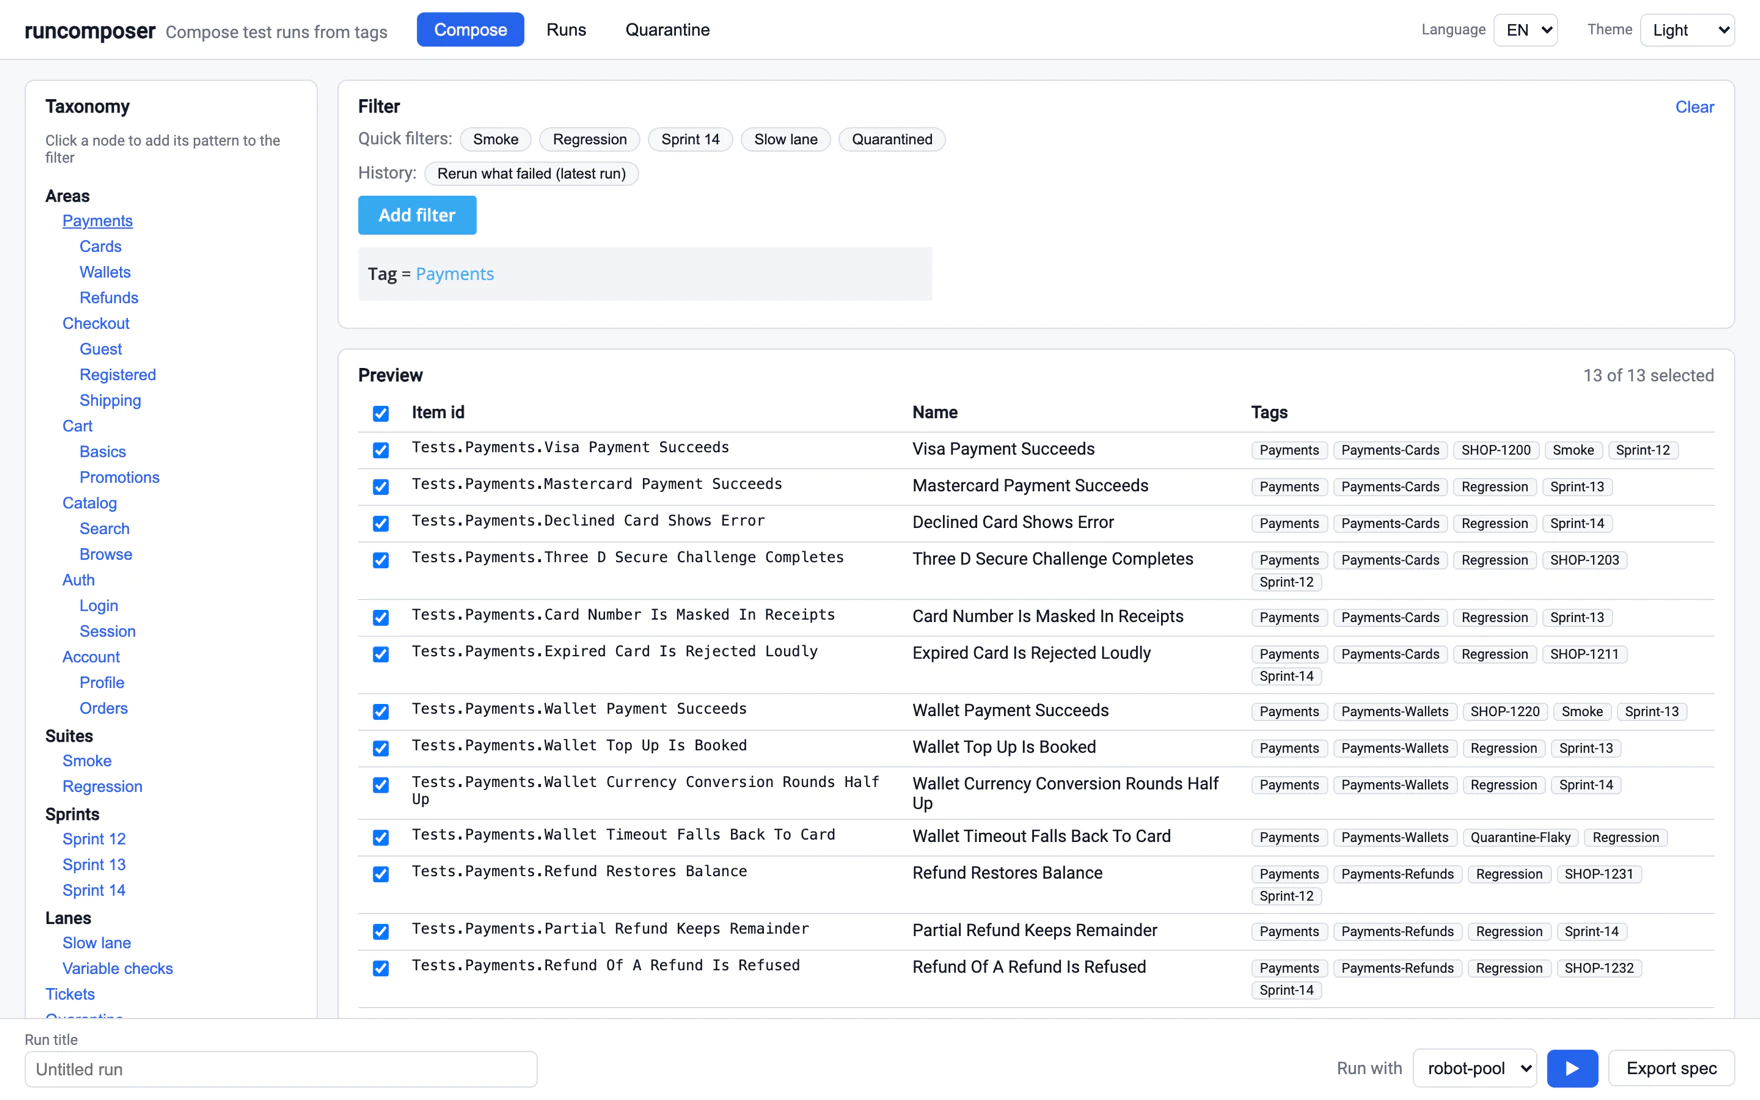
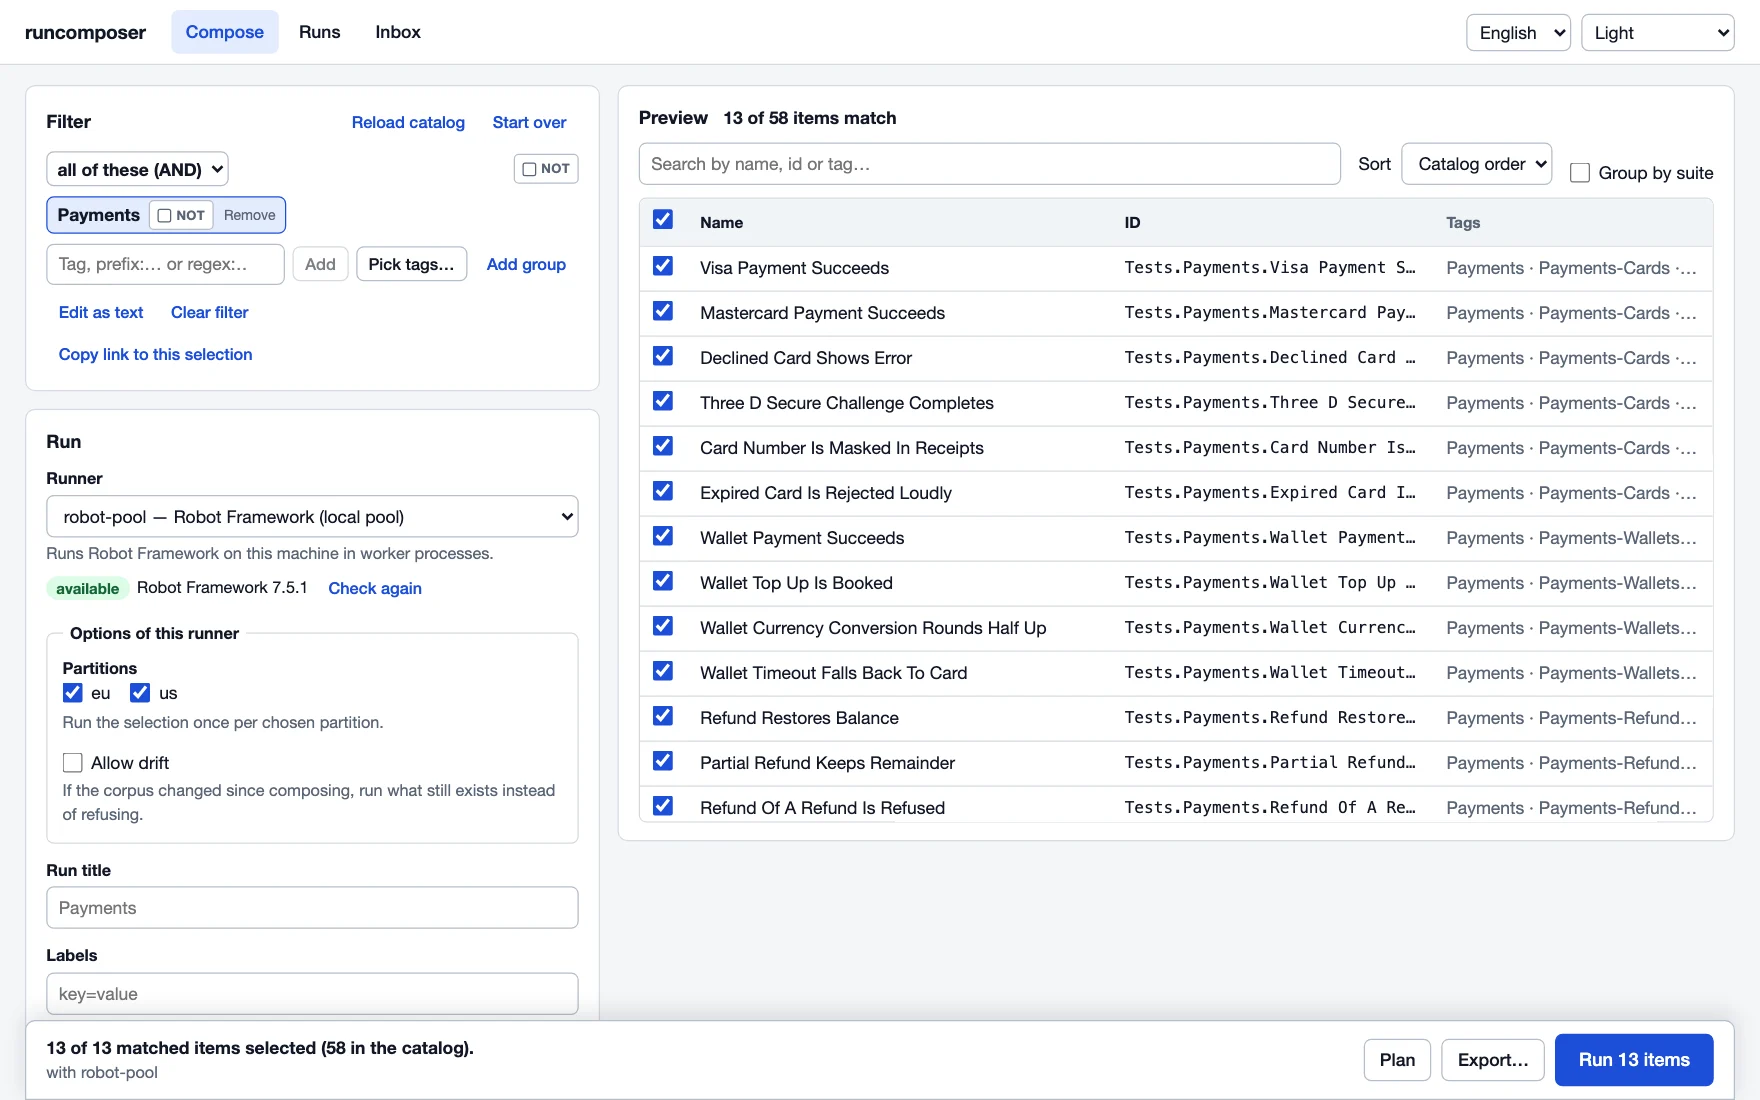
Docs: the web UI as built — changelog, DESIGN §10, the homepage's screenshot
The changelog's Web UI section is written, with the API additions that came
with the UI. DESIGN §10 no longer marks as planned what is rendered: plan
previews, text and mapping options, RUNNING, shard groups, presets and the
default filter, health checks, last_live. §6.4 describes how an HTML report
is served. The homepage's compose screenshot is taken from the current UI
over the example suite.

diff --git a/docs/index.de.html b/docs/index.de.html
@@ -684,12 +684,11 @@ pipx run --spec . runcomposer demo</code></pre>
   <div class="shot-band">
     <figure class="shot">
       <img src="hero-compose.webp" width="1760" height="1100" loading="eager" fetchpriority="high" decoding="async"
-           alt="Die Compose-Ansicht von runcomposer: links ein Taxonomie-Baum aus Bereichen, Suites,
-                Sprints und Lanes; daneben ein Filter aus einer Tag-Regel und eine Vorschau-Tabelle
-                mit dreizehn passenden Payments-Tests samt ihren Tags; darunter eine Fußzeile, die
-                den robot-pool-Runner oder den Spec-Export anbietet.">
-      <figcaption>Zusammenstellen: aus der Taxonomie wählen, zusehen, wie die Auswahl neu
-        kompiliert wird, dann ausführen oder exportieren. Korpus: <a href="https://github.com/StochasticEntropy/runcomposer/tree/main/examples/robot-shop">examples/robot-shop</a>
+           alt="Die Compose-Ansicht von runcomposer: links ein Filter mit der Regel Payments und darunter
+                der robot-pool-Runner mit seinen Partitionen; rechts eine Vorschau-Tabelle mit dreizehn
+                passenden Payments-Tests samt ihren Tags; unten eine Leiste mit Plan, Export und Ausführen.">
+      <figcaption>Zusammenstellen: einen Filter bauen, zusehen, wie die Auswahl neu
+        kompiliert wird, dann planen, ausführen oder exportieren. Korpus: <a href="https://github.com/StochasticEntropy/runcomposer/tree/main/examples/robot-shop">examples/robot-shop</a>
         über die Test Source <code>robotframework</code>.</figcaption>
     </figure>
   </div>

diff --git a/docs/index.html b/docs/index.html
@@ -682,11 +682,10 @@ pipx run --spec . runcomposer demo</code></pre>
   <div class="shot-band">
     <figure class="shot">
       <img src="hero-compose.webp" width="1760" height="1100" loading="eager" fetchpriority="high" decoding="async"
-           alt="The runcomposer compose view: a taxonomy tree of areas, suites, sprints and lanes on
-                the left; a filter built from a tag rule; and a preview table listing thirteen matched
-                Payments tests with their tags, above a footer offering the robot-pool runner or a
-                spec export.">
-      <figcaption>Compose: pick from the taxonomy, watch the selection recompile, then run it or
+           alt="The runcomposer compose view: on the left a filter with the rule Payments and, under it, the
+                robot-pool runner with its partitions; on the right a preview table listing thirteen matched
+                Payments tests with their tags; and at the bottom a bar offering Plan, Export and Run.">
+      <figcaption>Compose: build a filter, watch the selection recompile, then plan it, run it or
         export it. Corpus: <a href="https://github.com/StochasticEntropy/runcomposer/tree/main/examples/robot-shop">examples/robot-shop</a>
         through the <code>robotframework</code> source.</figcaption>
     </figure>

diff --git a/DESIGN.md b/DESIGN.md
@@ -1100,9 +1100,14 @@ Two safety properties of the route, both deliberate:
 2. **Sandboxed delivery.** Artifact bytes are untrusted content served from
    the same origin as the API and the UI. They go out with
    `Content-Security-Policy: default-src 'none'; sandbox` and
-   `X-Content-Type-Options: nosniff`, so an HTML artifact cannot script
-   against this origin. A report that needs its own JavaScript does not
-   render — host those where they belong and record the URL.
+   `X-Content-Type-Options: nosniff`, so an artifact cannot script against
+   this origin. A `text/html` artifact — a framework's log or report is an
+   HTML *application* and is a blank page without its own script — gets
+   `sandbox allow-scripts` with inline script and style and embedded images
+   allowed and everything else still denied: without `allow-same-origin` it
+   has an origin of its own and cannot read or call this server as the user,
+   `default-src 'none'` lets it load and connect to nothing, and
+   `form-action 'none'` lets it post nothing.
 
 **Retention is config, not an afterthought:** `core.retention.max_age_days`
 (`null` = no age limit) and `max_runs`, applied by `runcomposer gc`.
@@ -1504,6 +1509,7 @@ GET    /api/v1/runs/{id}                  # detail (below)
 DELETE /api/v1/runs/{id}
 GET    /api/v1/runs/{id}/items            # the materialized selection
 GET    /api/v1/runs/{id}/spec             # the stored document (never a token)
+GET    /api/v1/runs/{id}/export?format=ctrf  # the results as a CTRF download (what `export` writes)
 GET    /api/v1/runs/{id}/events?after=    # the event stream after a cursor; wait= long-polls
 GET    /api/v1/runs/{id}/verdicts         # dispatch, shard, status filters (status=RUNNING:
                                           #   what is executing now); limit/offset
@@ -1649,34 +1655,47 @@ neither is a degraded version of the other:
    sugar lives here.
 2. **Config-driven environment** — whatever the deployment puts under `ui:` is
    served from `/api/v1/ui-config`, never hardcoded (§8). The UI reads
-   `quick_filters` as starting points of a selection; using `default_filter`
-   and `presets` (also served by `GET /api/v1/presets`) is `[planned]`, and so
-   are `examples`, so a key the UI does not yet read is served and silently
-   ignored. Partitions are not a UI setting: they are the `partitions`
-   parameter a runner declares, chosen in the runner form.
-3. **Runner-aware compose footer** — "Run with: [robot-pool ▾] | Export spec";
-   runs list shows dispatch mode + lifecycle state incl. `AWAITING_RESULTS`;
-   an inbox view for unmatched (quarantined) deliveries.
+   `quick_filters` as starting points of a selection (one pattern is added
+   as a rule, a whole expression becomes the filter), starts a new selection
+   from `default_filter` — only when the URL carries no selection and the
+   session has no draft to come back to — and offers `presets` (read from
+   `GET /api/v1/presets`), each of which fills selection, runner, the
+   runner's options, title and labels. `examples` is `[planned]`, so a key
+   the UI does not yet read is served and silently ignored. Partitions are
+   not a UI setting: they are the `partitions` parameter a runner declares,
+   chosen in the runner form.
+3. **Runner-aware run bar** — what would run, with which runner, and the
+   actions Plan / Export / Run, in a bar that stays in reach at any scroll
+   position and width; runs list shows dispatch mode + lifecycle state incl.
+   `AWAITING_RESULTS`; an inbox view for unmatched (quarantined) deliveries.
 
 **What the UI covers of the 0.2 API.** Four hash routes — `#/compose`,
 `#/runs`, `#/runs/<id>`, `#/inbox` — so a deep link survives a reload
 without the server knowing a single UI route, and the UI works unchanged
 behind a reverse proxy that mounts it under a path prefix. Compose: the tag
 picker, the filter editor, the auto-compiled preview, a runner form rendered
-from the runner's declared parameters with its health status, and export
-with the document downloaded byte-exact from `spec_url` (§9). Runs: paging,
-search, state and label filters. A run: the lifecycle states and statuses
-0.2 added (`FAILED`, `CANCELLED`, `STALE`; `MISSING`, `INCOMPLETE`), the
-event stream followed live, the per-shard roll-up and artifact links,
-cancel, rerun (all, or what failed) and delete. Inbox: attach, promote,
-discard.
+from the runner's declared parameters — every kind, `text` and `mapping`
+included, a `pattern` checked before sending and the server's refusal put on
+the field — with the runner's health status and, where it reports them, its
+checks one by one (`health.data.checks`); a plan preview (`POST /plan`,
+§6.2) for a runner with the `plan` capability, showing shards, groups,
+estimates and notes or the refusal a dispatch would meet; and export with
+the document downloaded byte-exact from `spec_url` (§9). The preview of the
+selection and the plan are each the answer to what is on screen or are not
+shown: a request is keyed by what it asks, a newer question aborts it, and a
+late answer is dropped. Runs: paging, search, state and label filters. A
+run: the lifecycle states and statuses 0.2 added (`FAILED`, `CANCELLED`,
+`STALE`; `MISSING`, `INCOMPLETE`), the event stream followed live, the
+`RUNNING` live status per item (listed and counted as running, never as a
+result), the roll-up per shard and — where the runner declared groups — per
+group, with artifact links (a recorded directory is listed, not linked),
+`last_live` on a `MISSING` row after a cancel, cancel, rerun (all, or what
+did not pass, optionally with a title; the new run links back through
+`rerun_of`), a plan for the stored run (`POST /runs/{id}/plan`) and delete.
+Inbox: attach, promote, discard.
 
-What the API offers beyond that is `[planned]` on the UI side: plan previews
-(`POST /plan`, §6.2), form fields for the `text` and `mapping` parameter
-kinds and for a parameter's `pattern`, the `RUNNING` live status per item
-and `live_summary`, the shard groups and their roll-up, presets and the
-default filter, a runner's health `data` (what its checks found), and
-`last_live` on a `MISSING` row.
+Not in the UI: uploading results (§5), and the label-scoped history picker
+of §7 — a rerun is an action of one run.
 
 **Stack — decided:** TypeScript and React, and nothing else at run time —
 React and React DOM are the only dependencies. What earlier versions took
@@ -1825,7 +1844,7 @@ as history; `CHANGELOG.md` says what changed.
 | 5 | `runcomposer-exec` distribution | **Both by construction**: stdlib-only single file, also pipx-installable; JSON spec input so zero deps. |
 | 6 | Who mints the dispatch id (2026-08-28; the mechanism is superseded by #11/#12) | **runcomposer does**, offered to the runner as a `DispatchReservation` via the optional `bind_dispatch` hook (§6.2); the runner decides *when* the hand-off is recorded, and the returned handle refines the declaration. Rejected: passing the id into `dispatch()` (breaks the published signature), and letting bound runners write their own dispatch rows (duplicates the ledger, unavailable to unbound runners, and lets a runner's own id drift from its configured `mode`). A refused dispatch — refusal always precedes the recording — leaves **no** row. |
 | 7 | Shape of the shard in run detail (2026-08-28) | **Label the flat verdict list, add a sibling roll-up** (§9). Rejected: nesting verdicts by shard — it breaks every existing reader for a view a per-item table does not want; and leaving the aggregation to clients — the fan-out question is the reason shards exist, so answering it is the payload's job. |
-| 8 | Serving local artifacts (2026-08-28) | **Containment + sandbox** (§6.4): resolve the path fully and refuse anything not strictly inside `core.artifact_dir` (one rule covering `..`, absolute paths and symlinks), refuse as `404` so probing is uninformative, and serve with `sandbox`/`default-src 'none'`/`nosniff` because the bytes are attacker-influenced and share an origin with the UI. Accepted cost: a scripted HTML report renders inert; the §6.4 pass-through (host it elsewhere, record the URL) is the answer for those. Rejected: a bare static mount (no containment story, scripts live), and forcing `Content-Disposition: attachment` on everything (kills the one-click log the feature exists for). |
+| 8 | Serving local artifacts (2026-08-28) | **Containment + sandbox** (§6.4): resolve the path fully and refuse anything not strictly inside `core.artifact_dir` (one rule covering `..`, absolute paths and symlinks), refuse as `404` so probing is uninformative, and serve with `sandbox`/`default-src 'none'`/`nosniff` because the bytes are attacker-influenced and share an origin with the UI. A `text/html` artifact may run its own inline script inside that sandbox (`allow-scripts` without `allow-same-origin`, nothing loadable or reachable) — a framework's log is an application and was a blank page without it. Rejected: a bare static mount (no containment story, scripts live), and forcing `Content-Disposition: attachment` on everything (kills the one-click log the feature exists for). |
 | 10 | Where the taxonomy resolves (2026-09-03) | **Server-side, opt-in per request** (`?resolve=true`, §2/§9). Server-side because the tag universe is the catalog and the matcher is `core.filter`: resolving in the UI would mean shipping the whole catalog to the browser and reimplementing the §3.1 grammar — its case rules included — in JavaScript, where it would drift from the one the selection actually compiles with. Opt-in because the unresolved body is published API. Rejected: resolving unconditionally (changes every response and charges every caller for it), a second endpoint (duplicates the §8 error contract for the same document in the same grammar), and extending the *file* format so a leaf could carry several tags (the limitation is deliberate — the tree hands the builder one pattern, docs/taxonomy.md — and it would put the corpus into the file, which is exactly what drifts). |
 | 9 | History scope syntax (2026-08-28) | **A query-string suffix on the selector**, `<verdict>@<selector>?key=value&…` (§7), because `?`/`&` cannot occur in an ISO-8601 time or a run id, it survives a shell, an HTTP body and a spec field unchanged, and it composes with every existing selector. A scope on `run:<id>` is **refused, not ignored** — it can only mislead. Rejected: a second CLI-only flag (invisible in the API and in `derived_from`), and bracket/semicolon forms (quoting hazards, no established reading). |
 | 11 | Who owns the lifecycle (0.2) | **The core, per dispatch.** One transition function; a run's headline is derived from its latest dispatch (§4). Rejected: a run state any caller may set (0.1) — a refused re-dispatch erased a finished run, and a late bundle for an old dispatch rewrote the headline. Supersedes #6: the dispatch id is still runcomposer's, but the hand-off is now `ctx.declare`, not a reservation object and a returned handle. |

diff --git a/CHANGELOG.md b/CHANGELOG.md
@@ -414,7 +414,64 @@ where the member, field or behaviour did not exist or worked differently.
 
 ### Web UI
 
-<!-- PLACEHOLDER: the web UI rework's changes are filled in at merge. -->
+Rebuilt against the 0.2 API, in TypeScript; React and React DOM are the only
+run-time dependencies.
+
+- Four views with their own URLs — Compose, Runs, a run, Inbox. A selection
+  can be shared as a link, a run can be linked to, and a reload or a trip to
+  another view loses nothing. An edit of the filter is a step in the
+  browser's history.
+- One filter editor over the run spec's filter grammar: rules, groups, NOT as
+  a labelled switch, and the same expression as text. The third-party filter
+  widget is gone.
+- The tag picker shows item counts, says what applying will add and remove
+  and how many items result; unticking a tag removes it.
+- The preview is always the answer to the filter on screen or says it is not,
+  and a run can only be started from a current preview. Unticked items
+  survive filter edits. Search, sort, group by suite; rows are rendered as
+  needed.
+- A plan can be read before a run is started, for the selection in the
+  builder and for a stored run: shards, groups, estimates and the runner's
+  notes — or the refusal a dispatch would meet. Offered for runners with the
+  `plan` capability; never the plan of anything but what is on screen.
+- Runner options are a form rendered from what the runner declares — string,
+  text, integer, boolean, choice, multi-choice and mapping, with a declared
+  pattern checked before sending; a refusal by the server lands on its field.
+  Unhealthy runners are listed with the reason, and a runner's own health
+  checks one by one.
+- A deployment's presets fill selection, runner, options, title and labels;
+  its default filter is where a new selection starts; a quick filter may be a
+  whole expression.
+- The Run, Plan and Export actions sit in a bar that stays in reach at any
+  scroll position and width.
+- A run's page follows it live — progress per shard and, where the runner
+  declares groups, per group; what is running right now; cancel — and shows
+  failures first with durations, attempts and each shard's log and report.
+  After a cancel a missing item says what it was doing when the run stopped.
+  Run again, re-run what did not pass (optionally under a new title, with a
+  link back to the source run), load the selection back into the builder,
+  export, close as it stands, delete.
+- Export downloads the server's exact bytes and shows the ingest token once;
+  the document can be previewed before and downloaded again later. Results
+  can be downloaded as CTRF.
+- The inbox names runs by title, asks before discarding and has a count in
+  the navigation.
+- English and German throughout, including states, results and error codes.
+  Keyboard operation of the main flow, phone-sized screens, light and dark.
+- Browser end-to-end tests (`npm run e2e`) drive the built UI against real
+  servers; unit and component tests run under vitest; `npm run lint` is
+  eslint plus the TypeScript check.
+
+API additions that came with it:
+
+- A dispatch reports `planned_verdicts`; each shard of a run's roll-up
+  reports `planned` (both null when a runner declared shard names only).
+- An `invalid-parameter` error carries `parameter`, the name of the option.
+- `GET /api/v1/runs/{id}/export?format=ctrf` — the document `runcomposer
+  export` writes, as a download.
+- A `text/html` artifact is served with `sandbox allow-scripts` — an origin
+  of its own, nothing loadable or reachable — so a framework's log renders.
+  Every other type keeps the policy without script.
 
 ### Known limits
 

diff --git a/README.md b/README.md
@@ -190,7 +190,9 @@ pip install -e ".[dev]" && pytest         # Python 3.10–3.13 (add the [robot] 
 ruff check src tests && mypy              # lint + type check, both kept clean
 python ci/jenkins/e2e.py                  # the jenkins runner against a real Jenkins (needs docker)
 cd ui && npm ci && npm run dev            # UI dev server (proxies to :8100)
+npm test && npm run lint                  # UI unit tests; eslint + TypeScript check
 npm run build                             # rebuild src/runcomposer/ui_dist
+npm run e2e                               # the built UI in a browser against real servers
 ```
 
 See [CONTRIBUTING.md](CONTRIBUTING.md) for the boundaries that matter, and
